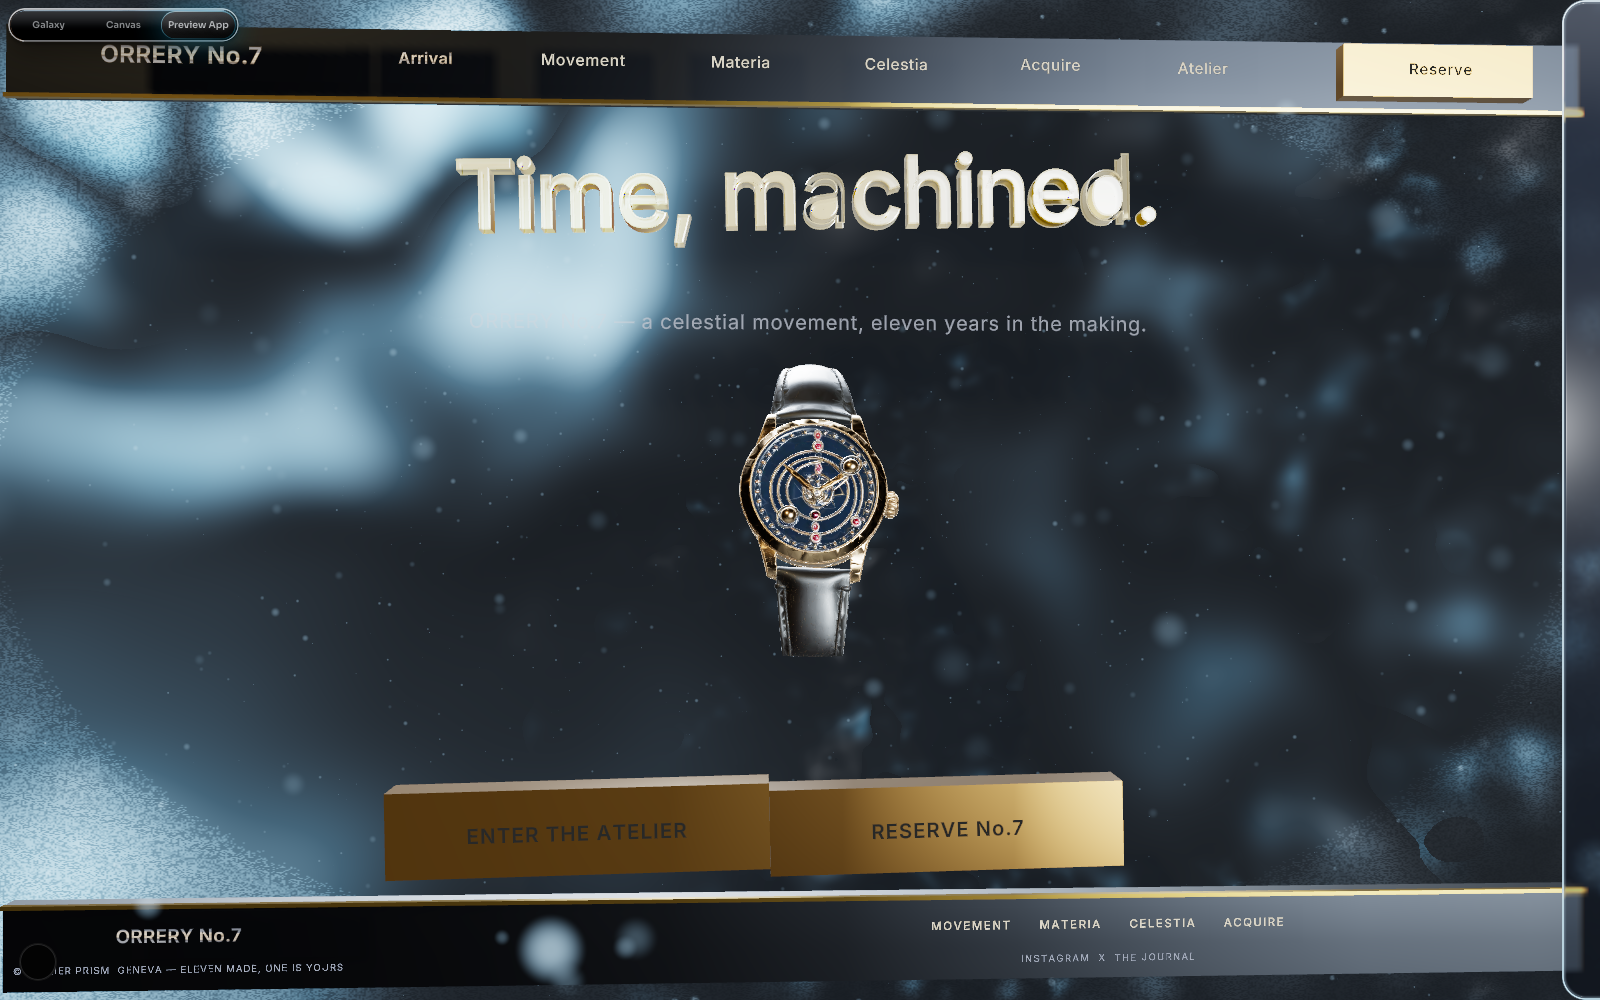
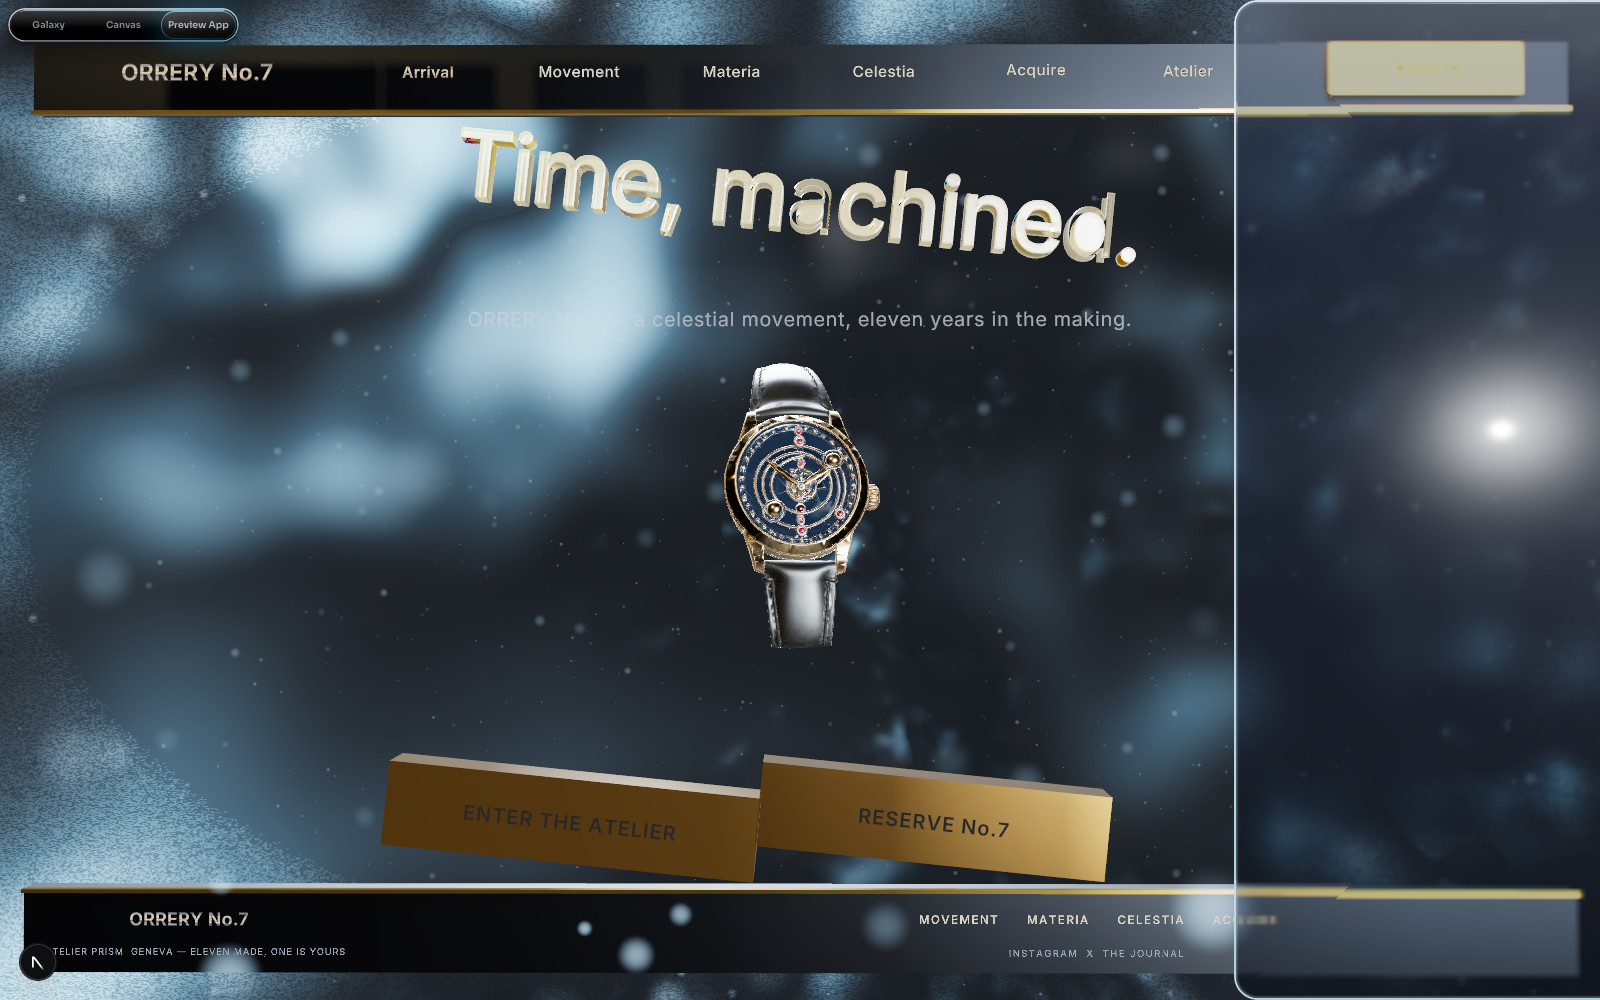
AUTO-CKPT: FIX3 wave2 (transition node/tagged host)
G3: the hub transition is now an INTENTIONAL tagged RUNTIME HOST, not accidental
hardcoded drift. The cross-hub curtain is runtime behaviour (camera-parented,
screen-space, orchestrates hub navigation), not an artifact pinned to a hub's
node graph — so it gets a proper authorship host rather than a fake node.

- HubSceneTransition.tsx: tag the curtain group userData.prismRuntimeHost='hub-transition'.
- node-authorship.ts: new artifact kind 'runtime-host' (sanctioned infra, NOT drift),
  detected before hardcoded; dropped 'hub-scene-transition' from NAMED_HARDCODED;
  EXPECTED_HARDCODED_ARTIFACTS now [] (foundation clean).
- GraphScene.tsx: __PRISM_NODE_AUTHORSHIP_SELFTEST__ — synthetic-scene proof that the
  classifier still discriminates hardcoded/runtime-host/node even when the real scene
  is clean (so future drift is still caught).
- node-authorship-gate.mjs: gate.classifier-live (self-test) + gate.no-accidental-drift
  (0 hardcoded) + runtime-host.hub-transition; EXPECTED_HARDCODED=[].
- docs/spec-deviations-prism.md: documented why the transition is a runtime host.

Verified: real scene 0 hardcoded, transition classified runtime-host; self-test
discriminates all 3 kinds; transition fires closing->holding->opening->idle, cover->1.0,
hub swapped; curtain visually unchanged; gate --strict-orphans 0 hard-fail; tsc 0-new;
0 console errors.

diff --git a/kid-kode-landing/src/lib/prism/runtime/node-authorship.ts b/kid-kode-landing/src/lib/prism/runtime/node-authorship.ts
@@ -27,12 +27,17 @@ import type { Object3D } from 'three';
 
 /** One classified top-level scene artifact. */
 export interface AuthorshipEntry {
-  /** Display label: `node:<id>` or `hardcoded:<name>`. */
+  /** Display label: `node:<id>`, `hardcoded:<name>`, or `runtime-host:<name>`. */
   label: string;
-  /** Authoring graph node id, or `null` when the artifact is hardcoded. */
+  /** Authoring graph node id, or `null` when the artifact is not a graph node
+   *  (both `hardcoded` accidental drift AND intentional `runtime-host` infra). */
   nodeId: string | null;
-  /** `'node'` = authored by a graph node; `'hardcoded'` = mounted outside it. */
-  kind: 'node' | 'hardcoded';
+  /** `'node'` = authored by a graph node; `'hardcoded'` = an artifact mounted
+   *  outside the node map (accidental Law-0 drift → the violation the gate
+   *  exists to catch); `'runtime-host'` = an INTENTIONAL, explicitly-tagged
+   *  runtime-behaviour host (e.g. the cross-hub transition) that is sanctioned
+   *  infrastructure, NOT a hub artifact and NOT drift (see prismRuntimeHost). */
+  kind: 'node' | 'hardcoded' | 'runtime-host';
   /** The Object3D's own `.name` (diagnostic). */
   name: string;
   /** Count of renderable descendants (Mesh/Points/Sprite/Line/InstancedMesh).
@@ -46,41 +51,43 @@ export interface AuthorshipReport {
   summary: {
     /** Artifacts produced by a graph node. */
     nodeAuthored: number;
-    /** Artifacts mounted outside the node map (hardcoded). */
+    /** Artifacts mounted outside the node map with NO sanction (accidental
+     *  hardcoded drift). This is the count the gate fails on. */
     hardcoded: number;
+    /** Intentional, explicitly-tagged runtime-behaviour hosts (sanctioned
+     *  infrastructure — e.g. the cross-hub transition). NOT counted as drift. */
+    runtimeHost: number;
     /** Node-authored artifacts that mounted but render nothing (orphan smell). */
     emptyNodeAuthored: number;
     total: number;
   };
 }
 
-/** The three KNOWN hardcoded signature artifacts from the Wave-1 audit, keyed
- *  by the value the gate reports. Until their dedicated greenlight sessions
- *  (G1/G2/G3 in AUDIT-REMEDIATION-PLAN.md) bring them into the graph, the gate
- *  surfaces them as EXPECTED-known drift (warn, not a fresh-drift failure). A
- *  hardcoded artifact NOT in this set is unsanctioned drift → the gate fails.
+/** KNOWN-but-unmigrated hardcoded signature artifacts (EXPECTED-known drift:
+ *  warn, not a fresh-drift failure). A hardcoded artifact NOT in this set is
+ *  unsanctioned drift → the gate fails.
  *
- *  `name` matches: the hub-transition curtain group is named
- *  `'hub-scene-transition'` (HubSceneTransition.tsx) so it is recognised with
- *  ZERO edits to that component. The two declarative rigs are tagged at their
- *  GraphScene mount host via `userData.prismHardcodedArtifact` (their component
- *  files are NOT touched this session — they are the watch/orrery G1/G2 work). */
-// FIX2 / G1 — 'configurator-watch' brought into the graph (node orr-atelier-watch,
-// codeRef 'builtin:atelier-watch'); node-authored, MUST NOT be flagged.
-// FIX3 / G2 — 'orrery-complication' brought into the graph (node orr-celestia-orrery,
-// codeRef 'builtin:orrery-complication'); node-authored, MUST NOT be flagged.
-// Only the hub-transition remains here pending its own greenlight (G3) — and that
-// one is a cross-hub RUNTIME effect, not a hub artifact; W2 reclassifies it as an
-// intentional tagged runtime host (see prismRuntimeHost below), not drift.
-export const EXPECTED_HARDCODED_ARTIFACTS: readonly string[] = [
-  'hub-transition',
-] as const;
+ *  THE FOUNDATION IS NOW CLEAN — this set is EMPTY. The three Wave-1 audit
+ *  artifacts have all been resolved:
+ *    • FIX2 / G1 — configurator watch → graph node `orr-atelier-watch`
+ *      (codeRef 'builtin:atelier-watch'). Node-authored.
+ *    • FIX3 / G2 — orrery complication → graph node `orr-celestia-orrery`
+ *      (codeRef 'builtin:orrery-complication'). Node-authored.
+ *    • FIX3 / G3 — hub transition → an INTENTIONAL tagged RUNTIME HOST. The
+ *      cross-hub curtain is runtime behaviour (a camera-parented, screen-space
+ *      transition orchestrating hub navigation), NOT an artifact pinned to any
+ *      hub's node graph — so node-authorship does not apply. It carries
+ *      `userData.prismRuntimeHost = 'hub-transition'` and is classified
+ *      `kind: 'runtime-host'` (sanctioned infra, not drift). See
+ *      docs/spec-deviations-prism.md. */
+export const EXPECTED_HARDCODED_ARTIFACTS: readonly string[] = [] as const;
 
-/** Object `.name` → canonical hardcoded-artifact label, for signature artifacts
- *  that already carry a stable name (no mount-host tag needed). */
-const NAMED_HARDCODED: Readonly<Record<string, string>> = {
-  'hub-scene-transition': 'hub-transition',
-};
+/** Object `.name` → canonical hardcoded-artifact label. EMPTY — no signature
+ *  artifact is recognised by name anymore (the hub-transition is now an
+ *  explicitly tagged runtime host, recognised by `prismRuntimeHost`, not by a
+ *  brittle name match). Retained as the extension point for any future
+ *  name-only hardcoded detection. */
+const NAMED_HARDCODED: Readonly<Record<string, string>> = {};
 
 interface RenderableLike {
   isMesh?: boolean;
@@ -162,24 +169,50 @@ export function computeSceneAuthorship(
     return false;
   };
 
-  // 2) Hardcoded artifacts — walk the scene (and the camera subtree) for
-  //    objects tagged at their mount host OR carrying a known signature name,
-  //    that are NOT inside a node-authored root. Each is reported with
-  //    nodeId === null: that null IS the violation the gate exists to surface.
+  // 2) Non-node artifacts — walk the scene (and the camera subtree) for objects
+  //    that are NOT inside a node-authored root and carry one of two tags:
+  //      • `prismRuntimeHost` → an INTENTIONAL runtime-behaviour host (sanctioned
+  //        infra; e.g. the camera-parented cross-hub transition). NOT drift.
+  //      • `prismHardcodedArtifact` (or a NAMED_HARDCODED signature name) → an
+  //        accidental hardcoded artifact mounted outside the node map. Its
+  //        nodeId === null IS the Law-0 violation the gate exists to surface.
+  //    Runtime hosts are checked FIRST so a host is never mis-flagged as drift.
   const reportedHardcoded = new Set<Object3D>();
+  const reportedRuntimeHost = new Set<Object3D>();
   const roots: Object3D[] = [];
   if (scene) roots.push(scene);
   if (camera) roots.push(camera);
 
   for (const r of roots) {
     r.traverse((o) => {
-      const ud = o.userData as { prismHardcodedArtifact?: unknown } | undefined;
+      const ud = o.userData as
+        | { prismHardcodedArtifact?: unknown; prismRuntimeHost?: unknown }
+        | undefined;
+      const host = typeof ud?.prismRuntimeHost === 'string' ? ud.prismRuntimeHost : null;
       const tag =
         typeof ud?.prismHardcodedArtifact === 'string' ? ud.prismHardcodedArtifact : null;
       const named = NAMED_HARDCODED[o.name] ?? null;
+      // Cheap early bail: most scene objects carry none of these tags.
+      if (!host && !tag && !named) return;
+      if (insideAuthored(o)) return; // a node legitimately authored it
+
+      // Intentional tagged runtime host — sanctioned, distinct from drift.
+      if (host) {
+        if (reportedRuntimeHost.has(o)) return;
+        reportedRuntimeHost.add(o);
+        artifacts.push({
+          label: `runtime-host:${host}`,
+          nodeId: null,
+          kind: 'runtime-host',
+          name: o.name ?? '',
+          renderables: countRenderables(o),
+        });
+        return;
+      }
+
+      // Accidental hardcoded artifact — the violation.
       const label = tag ?? named;
       if (!label) return;
-      if (insideAuthored(o)) return; // a node legitimately authored it
       if (reportedHardcoded.has(o)) return;
       reportedHardcoded.add(o);
       artifacts.push({
@@ -194,11 +227,13 @@ export function computeSceneAuthorship(
 
   const nodeAuthored = artifacts.filter((a) => a.kind === 'node');
   const hardcoded = artifacts.filter((a) => a.kind === 'hardcoded');
+  const runtimeHost = artifacts.filter((a) => a.kind === 'runtime-host');
   return {
     artifacts,
     summary: {
       nodeAuthored: nodeAuthored.length,
       hardcoded: hardcoded.length,
+      runtimeHost: runtimeHost.length,
       emptyNodeAuthored: nodeAuthored.filter((a) => a.renderables === 0).length,
       total: artifacts.length,
     },

diff --git a/kid-kode-landing/src/components/editor/graph/GraphScene.tsx b/kid-kode-landing/src/components/editor/graph/GraphScene.tsx
@@ -3298,6 +3298,36 @@ function AssembledSceneDiagnostics({ nodes }: { nodes: PrismNode[] }) {
       computeSceneAuthorship(scene, w.__PRISM_EDITOR_NODE_GROUPS__ ?? null, camera);
     return () => { delete w.__PRISM_NODE_AUTHORSHIP__; };
   }, [scene, camera]);
+  // FIX3 / G3 — classifier self-test. Once the foundation is CLEAN (watch +
+  // orrery are nodes, transition is a tagged runtime host), there are zero
+  // accidental hardcoded artifacts left in the real scene — which is the GOAL,
+  // but it means "did the gate flag any hardcoded?" can no longer prove the
+  // classifier still works. This pure, scene-independent probe runs
+  // computeSceneAuthorship over a SYNTHETIC scene carrying one of each tag, so
+  // the gate can assert the classifier still discriminates hardcoded (drift) vs
+  // runtime-host (sanctioned) vs node-authored — regardless of the real scene.
+  useEffect(() => {
+    if (process.env.NODE_ENV === 'production' || typeof window === 'undefined') return;
+    const w = window as unknown as {
+      __PRISM_NODE_AUTHORSHIP_SELFTEST__?: () => ReturnType<typeof computeSceneAuthorship>;
+    };
+    w.__PRISM_NODE_AUTHORSHIP_SELFTEST__ = () => {
+      const synthScene = new THREE.Group();
+      const mkContent = () => { const g = new THREE.Group(); g.add(new THREE.Mesh()); return g; };
+      const hard = mkContent();
+      hard.name = 'synthetic-hardcoded';
+      hard.userData.prismHardcodedArtifact = '__selftest-hardcoded__';
+      const host = mkContent();
+      host.name = 'synthetic-host';
+      host.userData.prismRuntimeHost = '__selftest-host__';
+      const authored = mkContent();
+      authored.name = 'synthetic-node';
+      synthScene.add(hard, host, authored);
+      const map = new Map<string, THREE.Object3D>([['__selftest-node__', authored]]);
+      return computeSceneAuthorship(synthScene, map, null);
+    };
+    return () => { delete w.__PRISM_NODE_AUTHORSHIP_SELFTEST__; };
+  }, []);
   // PROD-FINISH — reliable hero on-screen measurement hook. Projects a node's
   // mounted artifact bounding box to NORMALIZED screen space (0..1, y-down to
   // match a screenshot) so the heroes verifier can confirm the product renders

diff --git a/kid-kode-landing/src/components/editor/transition/HubSceneTransition.tsx b/kid-kode-landing/src/components/editor/transition/HubSceneTransition.tsx
@@ -166,6 +166,15 @@ export function HubSceneTransition() {
     if (camera.parent == null) scene.add(camera);
     const group = new THREE.Group();
     group.name = 'hub-scene-transition';
+    // FIX3 / G3 — mark this as an INTENTIONAL runtime host, not a hub artifact.
+    // The cross-hub transition is runtime behaviour (a camera-parented, screen-
+    // space curtain that orchestrates hub navigation), not an artifact pinned to
+    // any hub's node graph — so PRISM-MASTER-SPEC Law 0 ("every artifact is a
+    // node") does not apply. The node-authorship gate classifies this tag as
+    // `kind: 'runtime-host'` (sanctioned infra), NOT accidental hardcoded drift.
+    // See docs/spec-deviations-prism.md. (Replaces the old name-match the gate
+    // used to flag it as known-hardcoded.)
+    group.userData.prismRuntimeHost = 'hub-transition';
     const geo = new THREE.PlaneGeometry(1, 1);
     const mesh = new THREE.Mesh(geo, built.material);
     mesh.frustumCulled = false;

diff --git a/kid-kode-landing/docs/spec-deviations-prism.md b/kid-kode-landing/docs/spec-deviations-prism.md
@@ -576,3 +576,64 @@ The editor's Visual tab uses the async `gl` factory pattern from R3F v9
 Vercel ever serves a different React tree (e.g. server components),
 revisit the `gl: async () => createWebGPURenderer(...)` form.
 
+
+---
+
+## FIX3 / G3 — the hub transition is an intentional tagged RUNTIME HOST, not a node
+
+**PRISM-MASTER-SPEC Law 0 ("every artifact is a node") + the verification
+corollary (node-authorship) — sanctioned exception.**
+
+The Wave-1 foundation audit found three hardcoded signature artifacts. Two —
+the configurator watch (FIX2 / G1 → node `orr-atelier-watch`) and the orrery
+complication (FIX3 / G2 → node `orr-celestia-orrery`) — were genuine *hub
+artifacts*: visible objects that belong in a hub's node graph, so they were
+brought into the graph as `codeRef` nodes mounted by `AssembledSceneNode`.
+
+The third — the **hub transition** (`HubSceneTransition.tsx`) — is **not a hub
+artifact**. It is a cross-hub **runtime behaviour**: a camera-parented,
+screen-space brass curtain that closes, gates the (heavy) `activeHubId` swap to
+peak coverage, then opens — orchestrating *navigation between hubs*. It has:
+
+- no `scenePosition` (it tracks the camera in screen space, sized from live
+  fov/aspect — it is not placed in world space);
+- no `parentHubId` (it spans *all* hubs; it is mounted once in preview-app,
+  not per-hub);
+- no authored content to inspect/select/transform (it is a transient effect,
+  not a product surface);
+- a hard dependency on the navigation state machine (`useHubTransitionStore`)
+  and the render camera, which a graph node does not and should not carry.
+
+Forcing it into a "global-hub node" would be architecturally dishonest — it
+would invent a fake `scenePosition`/`parentHubId` for an object that is pure
+runtime behaviour, and it would put navigation-orchestration logic behind the
+node/codeRef contract, which is for *artifacts*. This is the same category as
+`SceneDriverHost`, `ChromeSlabLayer`, lighting rigs, and the post-processing
+composer: sanctioned runtime infrastructure that lives in the editor shell, not
+in the graph.
+
+**Resolution.** The transition's mounted group is tagged
+`userData.prismRuntimeHost = 'hub-transition'` (HubSceneTransition.tsx). The
+node-authorship classifier (`src/lib/prism/runtime/node-authorship.ts`) gained a
+third artifact kind, `'runtime-host'`, which it assigns to any object carrying
+`prismRuntimeHost`. A runtime host is **explicitly distinct from accidental
+hardcoded drift**: the gate (`scripts/node-authorship-gate.mjs`) recognises it
+as sanctioned infrastructure (`runtime-host.hub-transition` check) and never
+counts it toward hardcoded drift. The brittle name-match the gate previously
+used (`NAMED_HARDCODED['hub-scene-transition']`) is removed — recognition is now
+by the explicit tag, not by a coincidental object name.
+
+**Why this is not a loophole.** The classifier still catches *real* drift: any
+object mounted outside the node map that carries `prismHardcodedArtifact` (or is
+not tagged at all but is content) is flagged as `hardcoded`. The gate proves
+this every run via a synthetic self-test
+(`__PRISM_NODE_AUTHORSHIP_SELFTEST__`) that asserts a tagged-hardcoded object is
+still flagged, a runtime-host is sanctioned, and a node is authored — so a
+future accidental hardcoded artifact WOULD fail the gate even though the real
+scene is clean. Adding a new runtime host requires an explicit, reviewable
+`prismRuntimeHost` tag and (per this section) a documented rationale; it is a
+deliberate, auditable act, not a silent escape hatch.
+
+**Behaviour preserved.** The cinematic transition is byte-for-byte unchanged
+(same TSL curtain, same close → gated-swap → open timing, same camera-parented
+mount). Only the authorship classification changed.

diff --git a/kid-kode-landing/notes/FIX3-PROGRESS.md b/kid-kode-landing/notes/FIX3-PROGRESS.md
@@ -1,1 +1,2 @@
 [19:05] W1 DONE — orrery is a node. Created src/lib/prism/celestia/orrery-node-factory.ts (headless createNode port of OrreryComplicationRig: sun+glow+4 PBR planets on tilted brass rings, window.__ORRERY__ setTime/setSpeed/scrub + drag-to-scrub). Registered builtin:orrery-complication in coderef-registry. Added orr-celestia-orrery node (s4-celestia, scenePosition 0/0.35/0.4, codeRef) to live-graph.json (327 nodes). Removed JSX sibling + prismHardcodedArtifact tag at GraphScene; retired OrreryComplicationRig.tsx→.bak-fix3. Dropped 'orrery-complication' from EXPECTED_HARDCODED (node-authorship.ts + gate). VERIFIED: gate flags only hub-transition now (orrery node-authored, 178 artifacts, renders 10); preview-app renders premium (w1-orrery-preview-celestia.png); orbit animates t0/t3/t6 distinct + scrub works; EDITABLE in canvas — Inspector + gizmo + pos 0/0.35/0.40 (w1-PAYOFF-orrery-selected-editable.png); tsc 0-new; 0 console errors.
+[19:14] W2 DONE — hub transition is an intentional tagged runtime host. Tagged the curtain group userData.prismRuntimeHost='hub-transition' (HubSceneTransition.tsx). node-authorship.ts gained kind 'runtime-host' (sanctioned infra, NOT drift); dropped 'hub-scene-transition' from NAMED_HARDCODED + EXPECTED_HARDCODED→[]. Added classifier self-test hook __PRISM_NODE_AUTHORSHIP_SELFTEST__ (synthetic scene proves hardcoded/runtime-host/node discrimination). Gate reworked: gate.classifier-live (self-test) + gate.no-accidental-drift (0 hardcoded) + runtime-host.hub-transition. Documented deviation in docs/spec-deviations-prism.md (why transition=runtime behavior not hub artifact). VERIFIED: real scene 0 hardcoded, transition=runtime-host; self-test discriminates all 3 kinds; transition fires closing→holding→opening→idle, cover→1.0, hub swapped s4→s6 (w2-transition-curtain-held.png brass pleats+gold seam unchanged); gate --strict-orphans 0 hard-fail; tsc 0-new; 0 console errors.

diff --git a/kid-kode-landing/notes/MONITOR-FEED.md b/kid-kode-landing/notes/MONITOR-FEED.md
@@ -337,3 +337,7 @@ Reports: notes/AUDIT-SPEC-REPORT.md + docs/prism/PRISM-MASTER-SPEC.md
 
 ## [2026-06-22 19:05] FIX3 W1 — orrery is a node ✅
 The Celestia orrery complication is now a genuine graph node (orr-celestia-orrery → builtin:orrery-complication → celestia/orrery-node-factory.ts), the 2nd live codeRef. JSX sibling removed, gate no longer flags it (only hub-transition remains, → W2). Renders+animates premium in preview-app, editable in canvas (gizmo+Inspector+pos 0/0.35/0.40). tsc 0-new, 0 console errors. Commit pending.
+[19:11] FIX3-SENTINEL: [19:05] W1 DONE — orrery is a node. Created src/lib/prism/celestia/orrery-node-factory.ts (headless createNode port of O
+
+## [2026-06-22 19:14] FIX3 W2 — transition is a tagged runtime host ✅
+The hub transition is now an INTENTIONAL tagged runtime host (userData.prismRuntimeHost='hub-transition'), classified kind 'runtime-host' — sanctioned cross-hub runtime behavior, NOT a hub artifact (documented deviation). The gate flags ZERO accidental drift now (foundation clean — Law 0); a self-test proves real drift WOULD still be caught. Transition fires cinematically on nav (closing→holding→opening→idle, cover→1.0), curtain unchanged. 0 hard-fail, tsc 0-new, 0 console errors. → W3 final verify.
